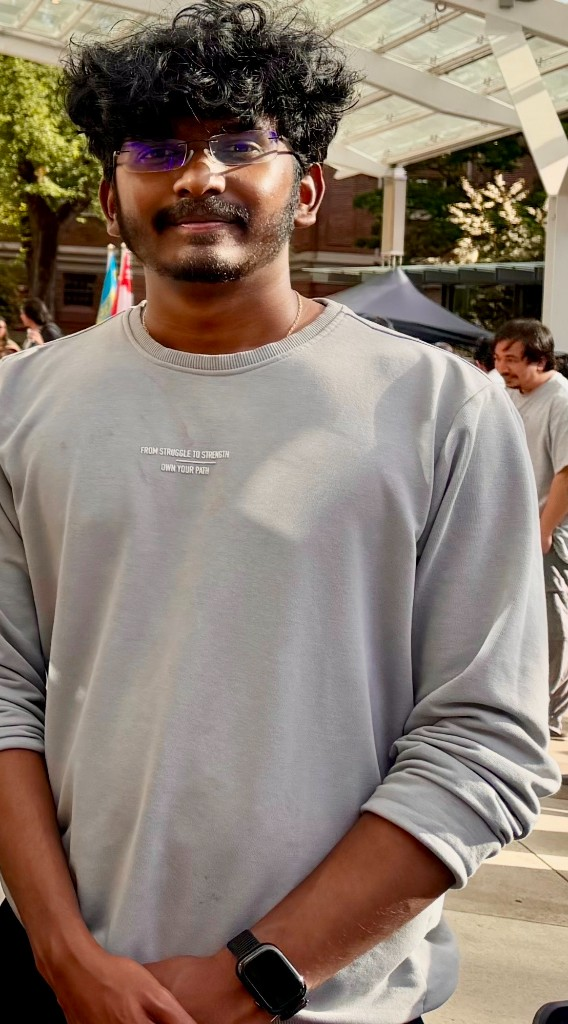
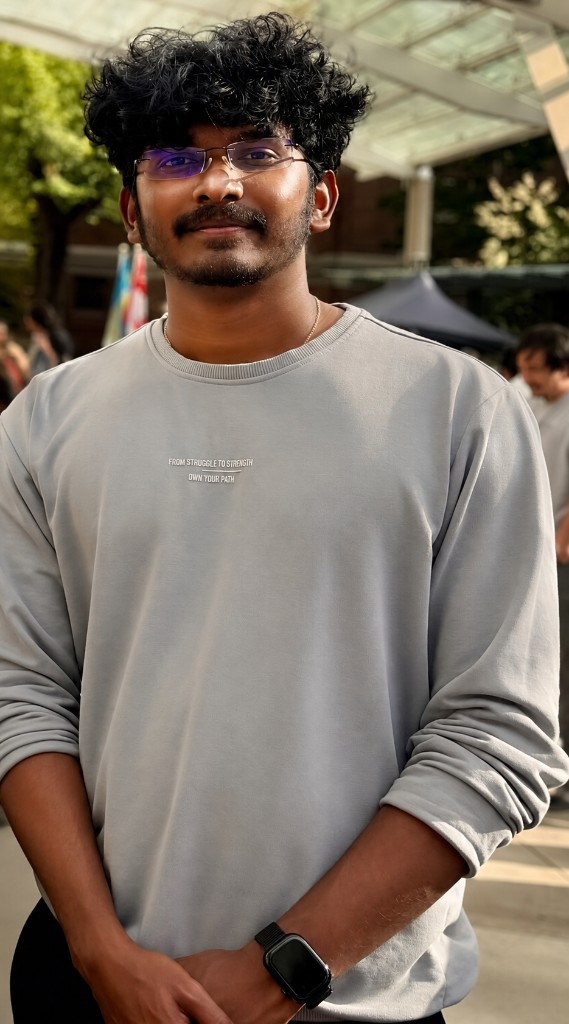
Refresh portfolio typography, photo, and project ordering.
Switch to Times New Roman for readability, update the about portrait, and sort projects newest-first with automatic numbering.

diff --git a/app/page.tsx b/app/page.tsx
@@ -619,7 +619,7 @@ function Hero() {
                 style={{ fontWeight: 900 }}
               >
                 <span
-                  className="block break-words leading-[0.95] tracking-[-0.04em]"
+                  className="block break-words leading-[0.98] tracking-[-0.01em]"
                   style={{ fontSize: "clamp(2.25rem, 5.5vw + 0.75rem, 5.5rem)" }}
                 >
                   Ram Saran
@@ -807,7 +807,7 @@ function AboutIntro() {
                   alt="Portrait of Ram Saran Venkatasalapathy"
                   fill
                   sizes="(max-width: 1024px) 280px, 280px"
-                  className="object-cover object-[center_20%]"
+                  className="object-cover object-[center_12%]"
                   priority
                 />
               </div>
@@ -908,8 +908,22 @@ const LAST_MILE_DASHBOARD_URL = "https://lastmile-dashboard.vercel.app/dashboard
 
 const projects = [
   {
+    id: "algorithmic-injustice" as const,
+    sortDate: "2026-06",
+    period: "Jun 2026",
+    title: "Algorithmic Injustice — ENGR 330 Digital Portfolio",
+    description:
+      "A full stack digital portfolio analyzing bias in automated decision making systems, built with Next.js 15 and TypeScript and deployed on Vercel. Covers AI hiring bias, facial recognition inequity, and justice oriented engineering frameworks across six interconnected pages.",
+    longDescription:
+      "Built a production grade digital portfolio for my ENGR 330 Inclusive and Equitable Engineering final project at Oregon State University. The site analyzes how AI systems in hiring, policing, and facial recognition encode historical inequality through nine connected Project Building Blocks. Designed and shipped the entire site in one day using Cursor as a coding assistant. Features include a visual timeline of AI bias history from the 1970s to present, an intersectional stakeholder profile card, a Design Justice framework analysis with three actionable strategies, a 9 PBB integration grid, and a dedicated APA references page. The project applies frameworks including Crenshaw's intersectionality theory, Costanza Chock's Design Justice, and the ACM Code of Ethics to propose concrete reforms to AI hiring standards including mandatory intersectional disparate impact analysis before deployment.",
+    tags: ["NEXT.JS", "FULL STACK"],
+    tech: ["Next.js", "TypeScript", "Tailwind CSS", "Vercel"],
+    link: "https://engr330-final-project.vercel.app",
+    github: "https://github.com/ramsaran28/Engr330-Final-Project",
+  },
+  {
     id: "route-optimization" as const,
-    number: "01",
+    sortDate: "2026-05-20",
     period: "May 2026",
     award: "2nd Place — AI for Good @ OSU Hackathon",
     title: "Last-Mile Route Optimization Analysis",
@@ -922,7 +936,7 @@ const projects = [
   },
   {
     id: "stacksense" as const,
-    number: "02",
+    sortDate: "2026-05-10",
     period: "May 2026",
     title: "Stacksense — AI-Powered GitHub Codebase Health Analyzer",
     description:
@@ -934,7 +948,7 @@ const projects = [
   },
   {
     id: "cryptosentinel" as const,
-    number: "03",
+    sortDate: "2026-04",
     period: "Apr 2026–Present",
     title: "CryptoSentinel — AI-Powered Crypto Monitoring System",
     description:
@@ -946,7 +960,7 @@ const projects = [
   },
   {
     id: "log-pipeline" as const,
-    number: "04",
+    sortDate: "2026-03",
     period: "Mar 2026",
     title: "Log Data Pipeline with API",
     description:
@@ -956,23 +970,19 @@ const projects = [
     link: "https://github.com/ramsaran28",
     github: "https://github.com/ramsaran28",
   },
-  {
-    id: "algorithmic-injustice" as const,
-    number: "05",
-    period: "Jun 2026",
-    title: "Algorithmic Injustice — ENGR 330 Digital Portfolio",
-    description:
-      "A full stack digital portfolio analyzing bias in automated decision making systems, built with Next.js 15 and TypeScript and deployed on Vercel. Covers AI hiring bias, facial recognition inequity, and justice oriented engineering frameworks across six interconnected pages.",
-    longDescription:
-      "Built a production grade digital portfolio for my ENGR 330 Inclusive and Equitable Engineering final project at Oregon State University. The site analyzes how AI systems in hiring, policing, and facial recognition encode historical inequality through nine connected Project Building Blocks. Designed and shipped the entire site in one day using Cursor as a coding assistant. Features include a visual timeline of AI bias history from the 1970s to present, an intersectional stakeholder profile card, a Design Justice framework analysis with three actionable strategies, a 9 PBB integration grid, and a dedicated APA references page. The project applies frameworks including Crenshaw's intersectionality theory, Costanza Chock's Design Justice, and the ACM Code of Ethics to propose concrete reforms to AI hiring standards including mandatory intersectional disparate impact analysis before deployment.",
-    tags: ["NEXT.JS", "FULL STACK"],
-    tech: ["Next.js", "TypeScript", "Tailwind CSS", "Vercel"],
-    link: "https://engr330-final-project.vercel.app",
-    github: "https://github.com/ramsaran28/Engr330-Final-Project",
-  },
-]
+] as const
 
-type ProjectCardData = (typeof projects)[number]
+type ProjectRecord = (typeof projects)[number]
+type ProjectCardData = ProjectRecord & { number: string }
+
+function getSortedProjects(): ProjectCardData[] {
+  return [...projects]
+    .sort((a, b) => b.sortDate.localeCompare(a.sortDate))
+    .map((project, index) => ({
+      ...project,
+      number: String(index + 1).padStart(2, "0"),
+    }))
+}
 
 const experienceCardContainerVariants = {
   hidden: { opacity: 0 },
@@ -993,8 +1003,6 @@ const experienceCardVariants = {
     },
   },
 }
-
-const ENGR330_LIVE_URL = "https://engr330-final-project.vercel.app"
 
 const routeOptimizationScreenshots = [
   {
@@ -1036,6 +1044,25 @@ type ProjectScreenshot = {
   readonly src: string
   readonly alt: string
   readonly label: string
+}
+
+type ProjectGalleryConfig = {
+  images: readonly ProjectScreenshot[]
+  caption: string
+  liveLabel?: string
+}
+
+const projectGalleries: Partial<Record<ProjectRecord["id"], ProjectGalleryConfig>> = {
+  "route-optimization": {
+    images: routeOptimizationScreenshots,
+    caption: "Interactive dashboard · Click to expand",
+    liveLabel: "Open live dashboard ↗",
+  },
+  "algorithmic-injustice": {
+    images: algorithmicInjusticeScreenshots,
+    caption: "Site preview · Click to expand",
+    liveLabel: "Open live site ↗",
+  },
 }
 
 function ProjectImageLightbox({
@@ -1238,8 +1265,12 @@ const frostedGlassCardClass =
 
 function FeaturedProjectCard({ featured }: { featured: ProjectCardData }) {
   const { ref, scrollFadeClass } = useScrollFadeIn()
+  const [expanded, setExpanded] = useState(false)
   const showMockup = featured.id === "stacksense"
-  const showRouteGallery = featured.id === "route-optimization"
+  const gallery = projectGalleries[featured.id]
+  const externalLink = isExternalProjectLink(featured.link)
+  const longDescription = "longDescription" in featured ? featured.longDescription : undefined
+  const showLongDescription = Boolean(longDescription && expanded)
 
   return (
     <article
@@ -1284,8 +1315,19 @@ function FeaturedProjectCard({ featured }: { featured: ProjectCardData }) {
             <span>{featured.period}</span>
           </div>
           <p className="mb-6 max-w-2xl text-[17px] max-md:text-[15px] leading-[1.75] text-on-dark-desc" style={{ fontWeight: 400 }}>
-            {featured.description}
+            {showLongDescription ? longDescription : featured.description}
           </p>
+          {longDescription ? (
+            <button
+              type="button"
+              onClick={() => setExpanded((open) => !open)}
+              className="mb-6 text-left text-[15px] text-[#4ade80] transition-opacity hover:opacity-90"
+              style={{ fontWeight: 500 }}
+              aria-expanded={expanded}
+            >
+              {expanded ? "Show less ↑" : "Read more →"}
+            </button>
+          ) : null}
           <div className="flex flex-wrap gap-2">
             {featured.tech.map((tech) => (
               <span key={tech} className="font-mono-accent border border-white/15 bg-transparent px-2.5 py-1.5 text-[16px] max-md:text-[15px] tracking-[0.06em] text-on-dark-pill" style={{ fontWeight: 500 }}>
@@ -1296,12 +1338,12 @@ function FeaturedProjectCard({ featured }: { featured: ProjectCardData }) {
           <div className="mt-8 flex flex-wrap gap-6">
             <a
               href={featured.link}
-              target={featured.id === "route-optimization" ? "_blank" : undefined}
-              rel={featured.id === "route-optimization" ? "noopener noreferrer" : undefined}
+              target={externalLink ? "_blank" : undefined}
+              rel={externalLink ? "noopener noreferrer" : undefined}
               className="text-[17px] max-md:text-[15px] text-white transition-opacity hover:opacity-90"
               style={{ fontWeight: 500 }}
             >
-              {featured.id === "route-optimization" ? "Live dashboard ↗" : "View project ↗"}
+              {externalLink ? (gallery?.liveLabel ?? "Live site ↗") : "View project ↗"}
             </a>
             <a
               href={featured.github}
@@ -1320,13 +1362,13 @@ function FeaturedProjectCard({ featured }: { featured: ProjectCardData }) {
           </div>
         ) : null}
       </div>
-      {showRouteGallery ? (
+      {gallery ? (
         <div className="relative z-[1] mt-10 border-t border-white/[0.08] pt-10">
           <ProjectScreenshotGallery
-            images={routeOptimizationScreenshots}
-            caption="Interactive dashboard · Click to expand"
-            liveUrl={LAST_MILE_DASHBOARD_URL}
-            liveLabel="Open live dashboard ↗"
+            images={gallery.images}
+            caption={gallery.caption}
+            liveUrl={externalLink ? featured.link : undefined}
+            liveLabel={gallery.liveLabel}
           />
         </div>
       ) : null}
@@ -1344,7 +1386,7 @@ function ProjectGridCard({ project }: { project: ProjectCardData }) {
   const longDescription = "longDescription" in project ? project.longDescription : undefined
   const showLongDescription = Boolean(longDescription && expanded)
   const externalLink = isExternalProjectLink(project.link)
-  const showGallery = project.id === "algorithmic-injustice"
+  const gallery = projectGalleries[project.id]
 
   return (
     <div ref={ref} className={`${scrollFadeClass} ${frostedGlassCardClass} group relative h-full`}>
@@ -1414,13 +1456,13 @@ function ProjectGridCard({ project }: { project: ProjectCardData }) {
             GitHub →
           </a>
         </div>
-        {showGallery ? (
+        {gallery ? (
           <div className="relative z-[1] mt-8 border-t border-white/[0.08] pt-8">
             <ProjectScreenshotGallery
-              images={algorithmicInjusticeScreenshots}
-              caption="Site preview · Click to expand"
-              liveUrl={ENGR330_LIVE_URL}
-              liveLabel="Open live site ↗"
+              images={gallery.images}
+              caption={gallery.caption}
+              liveUrl={externalLink ? project.link : undefined}
+              liveLabel={gallery.liveLabel}
             />
           </div>
         ) : null}
@@ -1430,7 +1472,8 @@ function ProjectGridCard({ project }: { project: ProjectCardData }) {
 }
 
 function Projects() {
-  const [featured, ...rest] = projects
+  const sortedProjects = getSortedProjects()
+  const [featured, ...rest] = sortedProjects
 
   return (
     <section id="work" className="bg-transparent px-6 py-[120px] md:px-[80px]">

diff --git a/app/globals.css b/app/globals.css
@@ -3,17 +3,18 @@
 :root {
   --background: #ffffff;
   --foreground: #171717;
-  --text-on-dark-body: rgba(255, 255, 255, 0.88);
-  --text-on-dark-label: rgba(255, 255, 255, 0.65);
-  --text-on-dark-desc: rgba(255, 255, 255, 0.8);
-  --text-on-dark-pill: #f0f0f0;
+  --font-serif: "Times New Roman", Times, "Liberation Serif", Georgia, serif;
+  --text-on-dark-body: rgba(255, 255, 255, 0.92);
+  --text-on-dark-label: rgba(255, 255, 255, 0.78);
+  --text-on-dark-desc: rgba(255, 255, 255, 0.9);
+  --text-on-dark-pill: #f5f5f5;
 }
 
 @theme inline {
   --color-background: var(--background);
   --color-foreground: var(--foreground);
-  --font-sans: var(--font-inter), ui-sans-serif, system-ui, sans-serif;
-  --font-mono: var(--font-jetbrains-mono), ui-monospace, monospace;
+  --font-sans: var(--font-serif);
+  --font-mono: var(--font-serif);
 }
 
 @media (prefers-color-scheme: dark) {
@@ -80,10 +81,11 @@ html {
 body {
   background: var(--background);
   color: var(--foreground);
-  font-family: var(--font-inter), ui-sans-serif, system-ui, sans-serif;
-  font-size: 17px;
-  line-height: 1.78;
+  font-family: var(--font-serif);
+  font-size: 18px;
+  line-height: 1.72;
   font-weight: 400;
+  letter-spacing: 0.01em;
 }
 
 /* Scroll-driven fade-up (paired with JS IntersectionObserver) */
@@ -101,34 +103,18 @@ body {
 }
 
 @media (max-width: 767px) {
-  /* Baseline readability on small screens (utility classes elsewhere still apply) */
   body {
-    font-size: 15px;
-    line-height: 1.75;
+    font-size: 16px;
+    line-height: 1.7;
   }
 }
 
-/* Playfair — hero name & section headings */
-.font-display {
-  font-family: var(--font-playfair-display), ui-serif, Georgia, serif;
-}
-
-/* JetBrains — mono accents (default weight 500 for caps labels via component) */
-.font-mono-accent {
-  font-family: var(--font-jetbrains-mono), ui-monospace, monospace;
-}
-
-/* Legacy About helpers → map to global stack */
-.font-inter-about {
-  font-family: var(--font-inter), ui-sans-serif, system-ui, sans-serif;
-}
-
-.font-playfair-about {
-  font-family: var(--font-playfair-display), ui-serif, Georgia, serif;
-}
-
+.font-display,
+.font-mono-accent,
+.font-inter-about,
+.font-playfair-about,
 .font-jetbrains-about {
-  font-family: var(--font-jetbrains-mono), ui-monospace, monospace;
+  font-family: var(--font-serif);
 }
 
 /* Site-wide subtle graph grid + vignette (above ambient backdrop, below content) */

diff --git a/app/layout.tsx b/app/layout.tsx
@@ -1,24 +1,5 @@
 import type { Metadata } from "next";
-import { Inter, JetBrains_Mono, Playfair_Display } from "next/font/google";
 import "./globals.css";
-
-const inter = Inter({
-  subsets: ["latin"],
-  variable: "--font-inter",
-  weight: ["300", "400", "500", "600", "700"],
-});
-
-const jetbrainsMono = JetBrains_Mono({
-  subsets: ["latin"],
-  variable: "--font-jetbrains-mono",
-  weight: ["400", "500", "600", "700"],
-});
-
-const playfairDisplay = Playfair_Display({
-  subsets: ["latin"],
-  variable: "--font-playfair-display",
-  weight: ["400", "700", "800", "900"],
-});
 
 export const metadata: Metadata = {
   title: "Ram Saran · Portfolio",
@@ -31,11 +12,8 @@ export default function RootLayout({
   children: React.ReactNode;
 }>) {
   return (
-    <html
-      lang="en"
-      className={`${inter.variable} ${jetbrainsMono.variable} ${playfairDisplay.variable} h-full antialiased`}
-    >
-      <body className="min-h-full flex flex-col font-sans">{children}</body>
+    <html lang="en" className="h-full antialiased">
+      <body className="min-h-full flex flex-col">{children}</body>
     </html>
   );
 }
